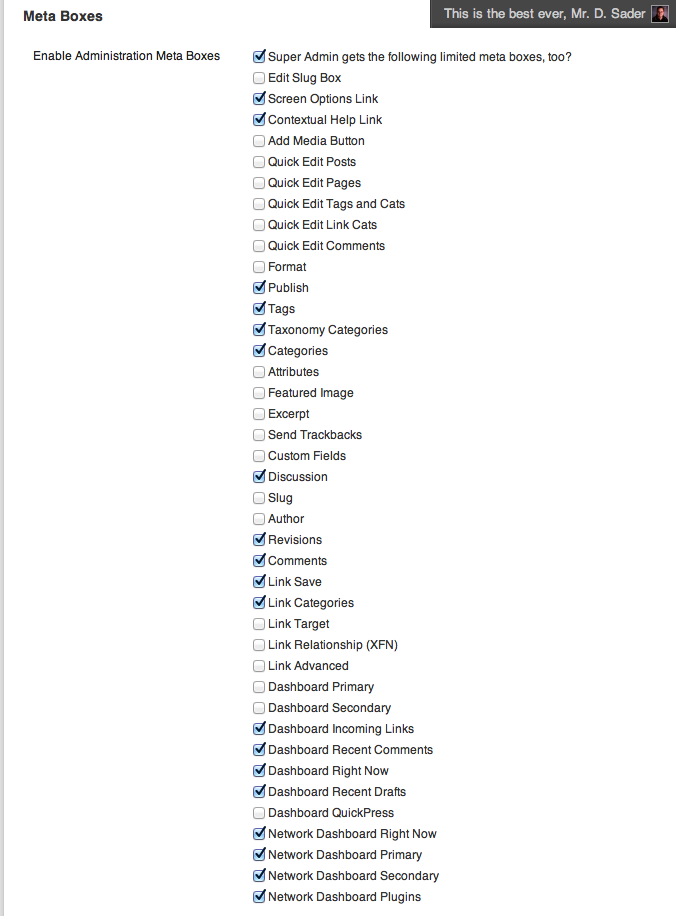
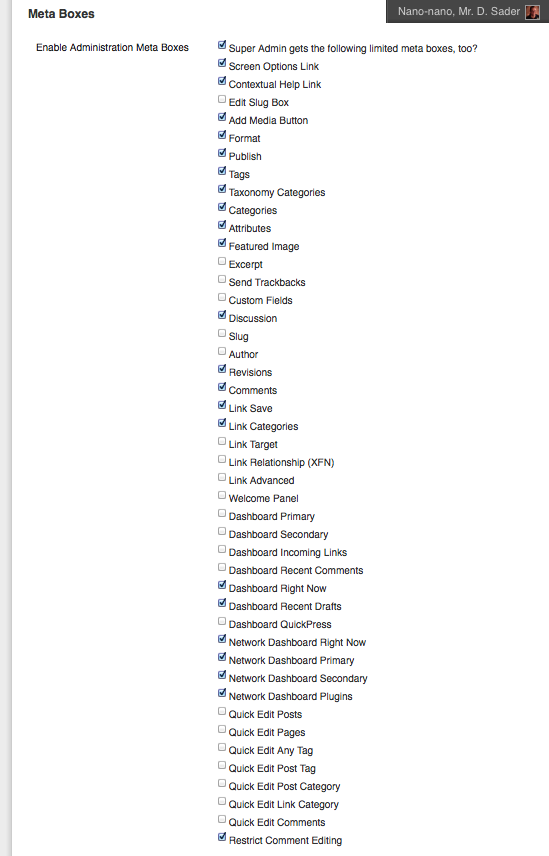
tested up to 3.7.1
git-svn-id: https://plugins.svn.wordpress.org/toggle-meta-boxes-sitewide/trunk@803538 b8457f37-d9ea-0310-8a92-e5e31aec5664

Changed region(s): [[0.3716, 0.0, 1.0, 1.0], [0.0, 0.0, 0.3406, 1.0]]

diff --git a/ds_wp3_toggle_meta_boxes.php b/ds_wp3_toggle_meta_boxes.php
@@ -2,8 +2,8 @@
 /*
 Plugin Name: Toggle Meta Boxes Sitewide
 Plugin URI: http://wordpress.org/extend/plugins/toggle-meta-boxes-sitewide/
-Version: 3.5
-Description: WP3.5 multisite network mu-plugin. Go to Network-->Settings to "Enable Administration Meta Boxes". Meta boxes(post, page, link, and dashboard) are unchecked and disabled by default. Extra options to toggle the Quick Edit buttons, Media buttons, Screen Options and Help links.
+Version: 3.7.1
+Description: WP3.7.1 multisite network mu-plugin. Go to Network-->Settings to "Enable Administration Meta Boxes". Meta boxes(post, page, link, and dashboard) are unchecked and disabled by default. Extra options to toggle the Quick Edit buttons, Media buttons, Screen Options and Help links. Toggle to Restrict Comment Editing to Editor+ roles. SuperAdmin comments can only be edited by a SuperAdmin.
 Author: D Sader
 Author URI: http://dsader.snowotherway.org
 Network: true
@@ -29,10 +29,101 @@ class ds_meta {
 	add_action( 'wpmu_options', array(&$this, 'ds_meta_box_option' )); // "Menu Settings->Enable Administration Menus->Plugins"
 	add_action( 'admin_head', array(&$this, 'ds_toggle_meta_boxes' )); // toggle metaboxes
 	add_action( 'admin_head', array(&$this, 'ds_extras_remove'  )); // toggle some extras
+	add_action( 'wp_dashboard_setup', array(&$this, 'ds_remove_dashboard_widgets' ));
 	add_action( 'wp_network_dashboard_setup', array(&$this, 'ds_remove_network_dashboard_widgets' ));
+	add_filter( 'comment_row_actions', array(&$this, 'ds_remove_comment_edit'), 1, 2); //Comment Editing Restricition
+	add_filter( 'map_meta_cap', array(&$this, 'ds_network_admin_restrict_comment_editing'), 10, 4 ); //Comment Editing Restricitons
+	add_action( 'admin_head-nav-menus.php', array(&$this, 'ds_nav_menus' ));
+//	add_filter( 'manage_nav-menus_columns', array(&$this, 'ds_nav_menu_manage_columns'),99 ); //not working yet: TODO
+}
+	function ds_nav_menu_manage_columns($array) {
+		//I want these advanced link properties hidden, better than this
+		$menu_perms = get_site_option( "menu_items" );
+		if( isset($menu_perms[ 'nav_menu_links_adv' ]) ) {
+
+	
+		$array = array(
+			'_title' => __('Show advanced menu properties'),
+			'cb' => '<input type="checkbox" />',
+			'link-target' => __('STJ Link Target'),
+			'css-classes' => __('CSS Classes'),
+			'xfn' => __('Link Relationship (XFN)'),
+			'description' => __('Description'),
+		);
+//			$user = wp_get_current_user();
+//			update_user_option($user->ID, 'managenav-menuscolumnshidden',
+//			array( 0 => 'link-target', 1 => 'css-classes', 2 => 'xfn', 3 => 'description', ), true);
+
+	return $array;
+	}
+}
+
+
+	function ds_nav_menus() {
+		// Menus nav-menus.php
+  		if( current_user_can( 'edit_theme_options' )) {
+ 			$menu_perms = get_site_option( "menu_items" );
+    		$screen = get_current_screen();  
+   	
+		if( !isset($menu_perms[ 'nav_menu_links' ]) ) 
+ 				remove_meta_box( 'add-custom-links', 'nav-menus','side' );
+
+ 		function ds_nav_menu_post_type_meta_boxes() {
+			$post_types = get_post_types( array( 'show_in_nav_menus' => true ), 'object' );
+				if ( ! $post_types )
+				return;
+
+			foreach ( $post_types as $post_type ) {
+				if ( $post_type ) {
+					$id = $post_type->name;
+ 				remove_meta_box("add-{$id}", 'nav-menus','side' );
+				}
+			}
+ 		}
+ 		
+		function ds_nav_menu_taxonomy_meta_boxes() {
+			$taxonomies = get_taxonomies( array( 'show_in_nav_menus' => true ), 'object' );
+				if ( !$taxonomies )
+				return;
+
+			foreach ( $taxonomies as $tax ) {
+				if ( $tax ) {
+					$id = $tax->name;
+				remove_meta_box("add-{$id}", 'nav-menus','side' );
+				}
+			}
+		} 
+		if( !isset($menu_perms[ 'nav_menu_pages' ]) ) ds_nav_menu_post_type_meta_boxes();
+ 		if( !isset($menu_perms[ 'nav_menu_cats' ]) ) ds_nav_menu_taxonomy_meta_boxes();
+    	}
+	}
+    
+	function ds_remove_dashboard_widgets() {	
+	// DASHBOARD /wp-admin/
+		$menu_perms = get_site_option( "menu_items" );
+		if(current_user_can('read')) {
+		if( !isset($menu_perms[ 'dash_prim_mb' ]) ) {
+			remove_meta_box('dashboard_primary', 'dashboard', 'side');
+		}
+		if( !isset($menu_perms[ 'dash_sec_mb' ]) ) {
+			remove_meta_box('dashboard_secondary', 'dashboard', 'side');
+		}
+		if( !isset($menu_perms[ 'dash_links_mb' ]) ) 
+			remove_meta_box('dashboard_incoming_links', 'dashboard', 'normal');
+		if( !isset($menu_perms[ 'dash_comments_mb' ]) ) 
+			remove_meta_box('dashboard_recent_comments', 'dashboard', 'normal');
+		if( !isset($menu_perms[ 'dash_right_now_mb' ]) ) 
+			remove_meta_box('dashboard_right_now', 'dashboard', 'normal');
+		}	
+		if ( current_user_can('edit_posts') ) {
+		if( !isset($menu_perms[ 'dash_drafts_mb' ]) ) 
+			remove_meta_box('dashboard_recent_drafts', 'dashboard', 'side');
+		if( !isset($menu_perms[ 'dash_quick_mb' ]) ) 
+			remove_meta_box('dashboard_quick_press', 'dashboard', 'side');
+		}
 	}
 	function ds_remove_network_dashboard_widgets() {
-	// Network Dashboard dashboard.php		
+	// Network Dashboard wp-admin/network/		
 		$menu_perms = get_site_option( "menu_items" );
 
 		if( !isset($menu_perms[ 'dash_net_prim_mb' ]) ) {
@@ -120,32 +211,12 @@ class ds_meta {
 			remove_meta_box('linkadvanceddiv', 'link', 'normal');
 	}
 	
-	// DASHBOARD dashboard.php
-	if(current_user_can('read')) {
-		if( !isset($menu_perms[ 'dash_prim_mb' ]) ) {
-			remove_meta_box('dashboard_primary', 'dashboard', 'side');
-		}
-		if( !isset($menu_perms[ 'dash_sec_mb' ]) ) {
-			remove_meta_box('dashboard_secondary', 'dashboard', 'side');
-		}
-		if( !isset($menu_perms[ 'dash_links_mb' ]) ) 
-			remove_meta_box('dashboard_incoming_links', 'dashboard', 'normal');
-		if( !isset($menu_perms[ 'dash_comments_mb' ]) ) 
-			remove_meta_box('dashboard_recent_comments', 'dashboard', 'normal');
-		if( !isset($menu_perms[ 'dash_right_now_mb' ]) ) 
-			remove_meta_box('dashboard_right_now', 'dashboard', 'normal');
-	}
-	if ( current_user_can('edit_posts') ) {
-		if( !isset($menu_perms[ 'dash_drafts_mb' ]) ) 
-			remove_meta_box('dashboard_recent_drafts', 'dashboard', 'side');
-		if( !isset($menu_perms[ 'dash_quick_mb' ]) ) 
-			remove_meta_box('dashboard_quick_press', 'dashboard', 'side');
-	}
 	}
 
 	//------------------------------------------------------------------------//
 	//--- Function to toggle extra administration cruft----------------------//
 	//----"Quick Edit" inline editing: http://core.trac.wordpress.org/ticket/12940---//
+	//----Comment Editing Restritions----------------------------------------//
 	//------------------------------------------------------------------------//
 	function ds_extras_remove() {
 	$menu_perms = get_site_option( "menu_items" );
@@ -168,20 +239,67 @@ class ds_meta {
  	//disable quickedit in page rows
  	if( !isset($menu_perms[ 'quick_edit_pages' ]) ) 
 		add_filter('page_row_actions', create_function('$actions, $post', 'unset($actions["inline hide-if-no-js"]); return $actions ;'), 10, 2);
- 	//disable quickedit in tag and category rows
- 	if( !isset($menu_perms[ 'quick_edit_tags' ]) ) 
+
+ 	//disable quickedit in any tag rows
+ 	if( !isset($menu_perms[ 'quick_edit_tag' ]) ) 
 		add_filter('tag_row_actions', create_function('$actions, $post', 'unset($actions["inline hide-if-no-js"]); return $actions ;'), 10, 2);
-	//disable quickedit in link rows
-	if( !isset($menu_perms[ 'quick_edit_link_cats' ]) ) 
-		add_filter('link_cat_row_actions', create_function('$actions, $post', 'unset($actions["inline hide-if-no-js"]); return $actions ;'), 10, 2);
+ 	//disable quickedit in taxonomy=post_tag rows
+ 	if( !isset($menu_perms[ 'quick_edit_post_tag' ]) ) 
+		add_filter('post_tag_row_actions', create_function('$actions, $post', 'unset($actions["inline hide-if-no-js"]); return $actions ;'), 10, 2);
+ 	//disable quickedit in taxonomy=category rows
+ 	if( !isset($menu_perms[ 'quick_edit_category' ]) ) 
+		add_filter('category_row_actions', create_function('$actions, $post', 'unset($actions["inline hide-if-no-js"]); return $actions ;'), 10, 2);
+	//disable quickedit in taxonomy=link_category rows
+	if( !isset($menu_perms[ 'quick_edit_link_category' ]) ) 
+		add_filter('link_category_row_actions', create_function('$actions, $post', 'unset($actions["inline hide-if-no-js"]); return $actions ;'), 10, 2);
+
 	//disable quickedit in comment rows
 	if( !isset($menu_perms[ 'quick_edit_comments' ]) ) 
 		add_filter('comment_row_actions', create_function('$actions, $post', 'unset($actions["quickedit"]); return $actions ;'), 10, 2);
 	// Media Buttons
 	if( !isset($menu_perms[ 'media_buttons' ]) ) 
 	 	remove_action( 'media_buttons', 'media_buttons' );
+	
+	//Welcome Panel
+	if( !isset($menu_perms[ 'welcome_panel' ]) ) 
+	 	remove_action( 'welcome_panel', 'wp_welcome_panel' );
 	}
 
+	//Comment Editing Restrictions
+	// http://scribu.net/wordpress/prevent-blog-authors-from-editing-comments.html
+	function ds_network_admin_restrict_comment_editing( $caps, $cap, $user_id, $args ) {
+		$menu_perms = get_site_option( "menu_items" );
+
+		if( isset($menu_perms[ 'comment_edit' ]) ) {
+
+			if ( 'edit_comment' == $cap ) {
+				$comment = get_comment( $args[0] );
+  			
+			if ( is_super_admin( $comment->user_id ) )
+				$caps[] = 'manage_network'; //NetworkAdmin is only role that can edit this comment - no user can approve or trash it either!
+			if ( ! is_super_admin( $comment->user_id ) && $comment->user_id != $user_id ) 
+				$caps[] = 'moderate_comments'; //NetworkAdmin, Admins, Editors roles can edit others comments
+			}
+		}
+		return $caps;
+	}
+
+    function ds_remove_comment_edit($actions, $comment) {
+		$menu_perms = get_site_option( "menu_items" );
+		if( !isset($menu_perms[ 'super_admin_mb' ] ) && is_super_admin()) 
+		return;
+		
+		if( isset($menu_perms[ 'comment_edit' ]) ) {
+
+        	$user_id = get_current_user_id();
+        	if ($comment->user_id != $user_id) {
+            	unset($actions['edit']); // edit link appears only on own comments
+            	unset($actions['quickedit']); //quickedit may already be toggled for all roles
+        	}
+		}
+        return $actions;
+   }
+    
 	//------------------------------------------------------------------------//
 	//---Function SiteAdmin->Options------------------------------------------//
 	//---Options are saved as site_options on wpmu-options.php page-----------//
@@ -192,18 +310,11 @@ class ds_meta {
 		$meta_perms = array();
 			$meta_items = array(
 		'super_admin_mb'	=> __(  'Super Admin gets the following limited meta boxes, too?' ),
-
 	//Extras
 		'screen_options_link'	=> __(  'Screen Options Link' ),
 		'contextual_help_link'	=> __(  'Contextual Help Link' ),
 		'edit_slug_box'			=> __(  'Edit Slug Box' ),
 		'media_buttons'			=> __(  'Add Media Button' ),
-		'quick_edit_posts'		=> __(  'Quick Edit Posts' ),
-		'quick_edit_pages'		=> __(  'Quick Edit Pages' ),
-		'quick_edit_tags'		=> __(  'Quick Edit Tags and Cats' ),
-		'quick_edit_link_cats'	=> __(  'Quick Edit Link Cats' ),
-		'quick_edit_comments'	=> __(  'Quick Edit Comments' ),
-
 	//Meta Boxes
 		'format_mb'			=> __(	'Format' ),
 		'publish_mb'		=> __(	'Publish' ),
@@ -225,6 +336,13 @@ class ds_meta {
 		'link_target_mb'	=> __(	'Link Target' ),
 		'link_xfn_mb'		=> __(	'Link Relationship (XFN)' ),
 		'link_adv_mb'		=> __(	'Link Advanced' ),
+		
+		'nav_menu_links'		=> __(	'Appearance Menu Links' ),
+		'nav_menu_links_adv'		=> __(	'Appearance Menu Link Show Advanced Properties' ),
+		'nav_menu_pages'		=> __(	'Appearance Menu Pages' ),
+		'nav_menu_cats'		=> __(	'Appearance Menu Categories' ),
+
+		'welcome_panel'		=> __(	'Welcome Panel' ),
 		'dash_prim_mb'		=> __(	'Dashboard Primary' ),
 		'dash_sec_mb'		=> __(	'Dashboard Secondary' ),
 		'dash_links_mb'		=> __(	'Dashboard Incoming Links' ),
@@ -236,6 +354,15 @@ class ds_meta {
 		'dash_net_prim_mb'		=> __(	'Network Dashboard Primary' ),
 		'dash_net_sec_mb'		=> __(	'Network Dashboard Secondary' ),
 		'dash_net_plugins'		=> __(	'Network Dashboard Plugins' ),
+		'quick_edit_posts'		=> __(  'Quick Edit Posts' ),
+		'quick_edit_pages'		=> __(  'Quick Edit Pages' ),
+		'quick_edit_tag'		=> __(  'Quick Edit Any Tag' ),
+		'quick_edit_post_tag'		=> __(  'Quick Edit Post Tag' ),
+		'quick_edit_category'		=> __(  'Quick Edit Post Category' ),
+		'quick_edit_link_category'	=> __(  'Quick Edit Link Category' ),
+		'quick_edit_comments'	=> __(  'Quick Edit Comments' ),
+		'comment_edit'		=> __(  'Restrict Comment Editing' ),
+
 			);
 ?>
 		<h3><?php _e( 'Meta Boxes' ); ?></h3>
